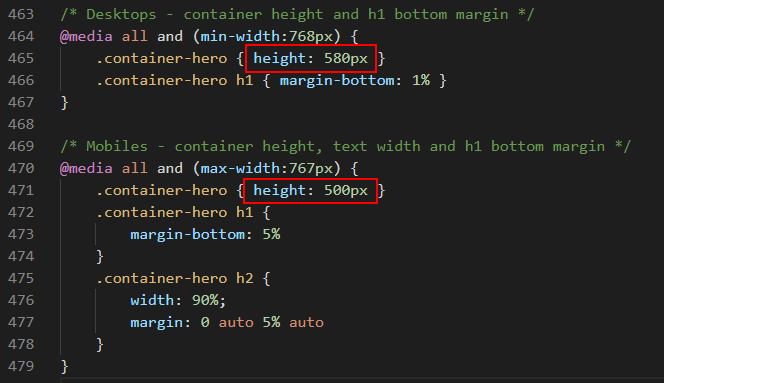
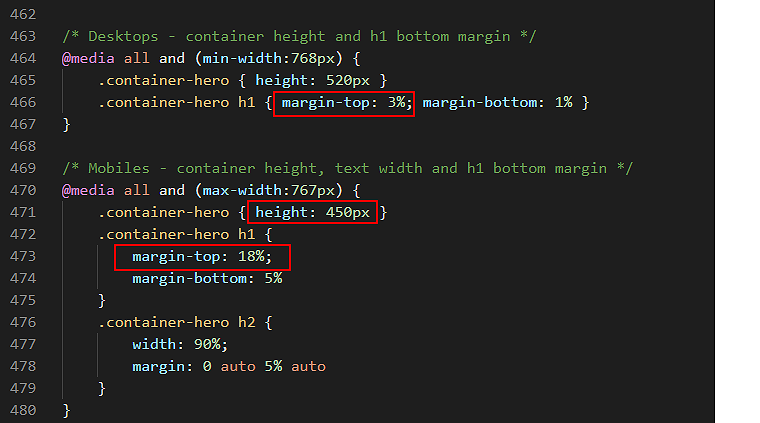
Smoothies project

diff --git a/webdev/projects/project-smoothies-menus/index.html b/webdev/projects/project-smoothies-menus/index.html
@@ -76,7 +76,7 @@ height="0" width="0" style="display:none;visibility:hidden"></iframe></noscript>
 		<p><a href="#link-destinations">Create the hyperlink destinations</a></p>
 		<p><a href="#page-scrolling">Control web page scrolling</a></p>
 		<p><a href="#edit-content">Update the mobile menu content and hyperlinks</a></p>
-		<p><a href="#edit-hero-height">Increase the height of the hero block</a></p>
+		<p><a href="#edit-hero-block">Update the hero block</a></p>
 		<p><a href="#edit-colours">Update the menu colours</a></p>
 		<p><a href="#style-swap-js">Add the JavaScript menu style-swapping effect</a></p>
 		<p><a href="#validate-html">Validate your HTML file</a></p>
@@ -195,7 +195,7 @@ height="0" width="0" style="display:none;visibility:hidden"></iframe></noscript>
 		<li>In the desktop menu section, update the logo image and hyperlink as follows.
 <span class="code-sample">
 <pre><code>
-&lt;<span class="blue-dark">a</span> <span class="blue-light">href</span>=<span class="brown">"#"</span>&gt;&lt;<span class="blue-dark">img</span> <span class="blue-light">src</span>=<span class="brown">"assets/img/smoothies-logo.png"</span> <span class="blue-light">alt</span>="website logo"&gt;&lt;/<span class="blue-dark">a</span>&gt;  
+&lt;<span class="blue-dark">a</span> <span class="blue-light">href</span>=<span class="brown">"#"</span>&gt;&lt;<span class="blue-dark">img</span> <span class="blue-light">src</span>=<span class="brown">"assets/img/smoothies-logo.png"</span> <span class="blue-light">alt</span>=<span class="brown">"website logo"</span>&gt;&lt;/<span class="blue-dark">a</span>&gt;  
 </code></pre>
 </span></li>
 	<li>Scroll down a few lines to the mobile menu section and copy-and-paste the new logo and hyperlink from the desktop menu to here.
@@ -251,19 +251,6 @@ height="0" width="0" style="display:none;visibility:hidden"></iframe></noscript>
 
 <section id="page-scrolling" class="block-content bg-white">
 	<h2>Control web page scrolling</h2>
-
-	<p>When you click on an option within the desktop or mobile menu, you can see that the page immediately 'jumps' to the relevant location on the web page</p>
-
-	<p>You can add a so-called 'smooth scrolling' effect to your web page links as follows:</p>
-
-	<ol>
-		<li>In your <b>style.css</b> stylesheet, add the following new property and value to the /* BROWSER RESETS */ section:
-		<img src="assets/img/vscode-smooth-scrolling.png" alt="fa-icons-copy"></li>
-		<li>Save the <b>style.css</b> file and view the result in your web browser for both desktop and mobile screen sizes by clicking the menu options.</li>
-	</ol>
-
-	<p>Note that the <b>scroll-behavior: smooth</b> effect works with the Google Chrome, Mozilla Firefox, Brave, Samsung Internet and Android Webview web browsers. However, it is not yet supported by the Microsoft Edge web browser. A new and major upgrade of Edge is planned for early 2020 and Microsoft are expected to fix this defect then. It is also not currently supported by the Apple Safari and Opera web browsers.</p>
-
 
 	<p>When you click on an option within the desktop or mobile menu, you can see that the top of the destination heading is partly 'hidden' behind the menu.</p>
 
@@ -338,11 +325,11 @@ height="0" width="0" style="display:none;visibility:hidden"></iframe></noscript>
 
 </section>
 
-<section id="edit-hero-height" class="block-content bg-white">
-	<h2>Increase the height of the hero block</h2>
-	<p>You need to make a hero section a little taller on desktop screens and a lot taller on mobile screens.</p>
+<section id="edit-hero-block" class="block-content bg-white">
+	<h2>Update the hero block</h2>
+	<p>You need to make a few chages to the hero block at the top of your web page.</p>
 	<ol>
-		<li>In the <b>style.css</b> file, edit the height of the <b>container-hero</b> class  as shown below.
+		<li>In the <b>style.css</b> file, edit the height of the <b>container-hero</b> class for mobile screens as shown below. Also add some margin spacing above the main &lt;h1&gt; heading for desktops and mobiles.
 		<img src="assets/img/vscode-hero-height.png" alt="fa-icons-copy">
 		<li>Save the <b>style.css</b> file and view the web page in your web browser.</li>
 	</ol>
@@ -398,15 +385,24 @@ height="0" width="0" style="display:none;visibility:hidden"></iframe></noscript>
 
 		<li>Save the <b>index.html</b> file and view the web page in your web browser.</li>
 
-		<li>To make the menu text links easier to read against the transparent background on desktop screens, darken the overlay on the hero image.
+		<li>To make the menu text links easier to read against the transparent background on desktop screens, darken the overlay at the top of the hero image.
 		<span class="inside-ol">&nbsp;</span>
-		In the <b>style.css</b> file, for the <b>container-hero</b> class, increase the overlay opacity value from the <b>background-image</b> property to <b>0.4</b>
+		In the <b>style.css</b> file, for the <b>container-hero</b> class, increase the upper value of the overlay opacity gradient from the <b>background-image</b> property to <b>0.6</b>
 		<img src="assets/img/vscode-overlay-opacity.png" alt="fa-icons-copy"></li>
+		<li>One final change: to make the hamburger icon easier-to-read against the background image, change its colour from red to white as shown below.
+		<img src="assets/img/vscode-hamburger-icon.png" alt="fa-icons-copy"></li>
 		<li>Save the <b>style.css</b> file and view the web page in your web browser.</li>
 	</ol>
 
-	<p>This JavaScript code, when the user scrolls down the web page, removes the <b>menu-transparent</b> class and replaces with the <b>menu-light</b> class. It also adds the <b>menu-drop-shadow</b> class which places of drop shadow effect under the menu.</p>
-	<p>When the user scrolls back up the web page, the <b>menu-light</b> and <b>menu-drop-shadow</b> classes are removed and replaced with the original <b>menu-transparent</b> class.</p>
+	<p>When the user scrolls down the web page:</p>
+	<ul>
+		<li>This JavaScript code removes the <b>menu-transparent</b> class and replaces it with the <b>menu-light</b> class. It also adds the <b>menu-drop-shadow</b> class that places a drop shadow effect under the menu.</li>
+	</ul>
+
+	<p>When the user scrolls back up the web page:</p>
+	<ul>
+		<li>The JavaScript code removes the <b>menu-light</b> and <b>menu-drop-shadow</b> classes, and replaces them with the original <b>menu-transparent</b> class.</li>
+	</ul>
 
 	<p>That's it. You have now completed your 'Smoothies' project.</p>
 
